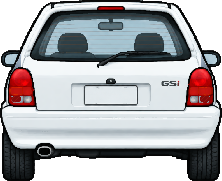
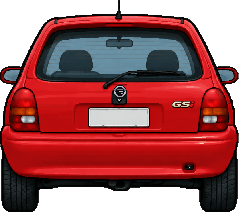
Corsário GSi: traseira nova (arte vermelha)
- Traseira da nova arte na grade nativa; máscara pelo matiz vermelho sem as
  lanternas (forma de topo redondo), a luz de freio do alto, o GSi e a placa
- Letreiro com o nome do modelo vira lataria; emblema da maçaneta vira o
  fictício
- Lanternas e pisca âmbar como na arte

Claude-Session: https://claude.ai/code/session_01MLD9VR7gkmY4w6a9beZcp6

diff --git a/src/carsbr.ts b/src/carsbr.ts
@@ -48,7 +48,7 @@ export const BR_CARS: CarSpec[] = [
   { ...fwd(spec({ id: 'br-golgti', name: 'Gaúcho GTI', basedOn: 'VW Gol GTI 2.0 (1994)', color: '#d81a12', price: 16000, position: 'dianteira', engine: '4 cil. 8v', cc: 1984, cv: 120, kmh: 185, z100: 9.2, kg: 970, curve: 'torque', lat: 0.86, brake: 0.92, handling: 1.0 })), dash: 'br-golgti', rear: { h: 0.75, roof: 0.62, lights: 'rect', wing: 1, glow: { dots: [[0.1, 0.5], [0.28, 0.5], [0.72, 0.5], [0.9, 0.5]] } } },
   { ...fwd(spec({ id: 'br-kadett', name: 'Cadete GSi', basedOn: 'Chevrolet Kadett GSi 2.0 (1989)', color: '#f0c000', price: 17000, position: 'dianteira', engine: '4 cil. 8v', cc: 1998, cv: 121, kmh: 190, z100: 9.6, kg: 1030, curve: 'torque', lat: 0.85, brake: 0.9, handling: 0.97 })), dash: 'br-kadett', rear: { h: 0.75, roof: 0.62, lights: 'rect', wing: 1, glow: { dots: [[0.11, 0.4], [0.89, 0.4]] } } },
   fwd(spec({ id: 'br-xr3', name: 'Escoltar XR3', basedOn: 'Ford Escort XR3 2.0i (1993)', color: '#1a3aa8', price: 16500, position: 'dianteira', engine: '4 cil. 8v', cc: 1984, cv: 115, kmh: 185, z100: 9.8, kg: 1050, curve: 'torque', lat: 0.85, brake: 0.9, handling: 0.97 })),
-  { ...fwd(spec({ id: 'br-corsa', name: 'Corsário GSi', basedOn: 'Chevrolet Corsa GSi 1.6 16v (1995)', color: '#ececec', price: 14000, position: 'dianteira', engine: '4 cil. 16v', cc: 1598, cv: 108, kmh: 190, z100: 9.5, kg: 950, curve: 'vtec', lat: 0.85, brake: 0.92, handling: 1.03 })), dash: 'br-corsa', rear: { h: 0.815, roof: 0.6, lights: 'rect', wing: 1, glow: { dots: [[0.1, 0.43], [0.9, 0.43]] } } },
+  { ...fwd(spec({ id: 'br-corsa', name: 'Corsário GSi', basedOn: 'Chevrolet Corsa GSi 1.6 16v (1995)', color: '#ececec', price: 14000, position: 'dianteira', engine: '4 cil. 16v', cc: 1598, cv: 108, kmh: 190, z100: 9.5, kg: 950, curve: 'vtec', lat: 0.85, brake: 0.92, handling: 1.03 })), dash: 'br-corsa', rear: { h: 0.88, roof: 0.6, lights: 'rect', wing: 1, glow: { dots: [[0.105, 0.47], [0.895, 0.47]] } } },
   fwd(spec({ id: 'br-monza', name: 'Monção S/R', basedOn: 'Chevrolet Monza S/R 2.0 (1986)', color: '#ececec', price: 13000, position: 'dianteira', engine: '4 cil. 8v', cc: 1998, cv: 110, kmh: 180, z100: 10.5, kg: 1060, curve: 'torque', lat: 0.8, brake: 0.86, handling: 0.9 })),
   spec({ id: 'br-opala', name: 'Opalino SS', basedOn: 'Chevrolet Opala SS 4.1 (1976)', color: '#1c1c20', price: 15000, position: 'dianteira', engine: '6 cil. 12v', cc: 4093, cv: 148, kmh: 180, z100: 10.5, kg: 1180, gears: G4, curve: 'torque', lat: 0.74, brake: 0.8, handling: 0.82 }),
   { ...spec({ id: 'br-pumagtb', name: 'Onça GTB', basedOn: 'Puma GTB S2 4.1 (1979)', color: '#c8ccd0', price: 19000, position: 'dianteira', engine: '6 cil. 12v', cc: 4093, cv: 140, kmh: 180, z100: 10.0, kg: 1150, gears: G4, curve: 'torque', lat: 0.78, brake: 0.82, handling: 0.86 }), dash: 'br-pumagtb', rear: { h: 0.62, roof: 0.62, lights: 'rect', wing: 0, glow: { dots: [[0.18, 0.6], [0.3, 0.6], [0.7, 0.6], [0.82, 0.6]] } } },

diff --git a/src/cars.ts b/src/cars.ts
@@ -321,7 +321,7 @@ const LAMPS: Record<string, LampDef> = {
   countach: { pop: [0.09, 0.57, 0.26, 0.62], sigRear: [0.125, 0.55, 0.2, 0.69], sigFront: [0.05, 0.64, 0.14, 0.7] },
   viper: { head: [0.165, 0.54, 0.06], sigRear: [0.08, 0.46, 0.16, 0.5], sigRed: true, sigFront: [0.04, 0.6, 0.1, 0.65] },
   '959': { head: [0.17, 0.49, 0.05], sigRear: [0.083, 0.51, 0.183, 0.57], sigFront: [0.05, 0.65, 0.13, 0.68] },
-  'br-corsa': { head: [0.16, 0.54, 0.06], sigRear: [0.05, 0.475, 0.15, 0.525], sigRed: true, sigFront: [0.06, 0.5, 0.1, 0.58] },
+  'br-corsa': { head: [0.16, 0.54, 0.06], sigRear: [0.05, 0.51, 0.16, 0.54], sigFront: [0.06, 0.5, 0.1, 0.58] },
   'br-uno': { head: [0.19, 0.55, 0.06], sigRear: [0.065, 0.46, 0.18, 0.535], sigFront: [0.075, 0.51, 0.105, 0.6] },
   'br-kadett': { head: [0.2, 0.52, 0.06], sigRear: [0.07, 0.46, 0.15, 0.54], sigFront: [0.05, 0.46, 0.11, 0.58] },
   'br-pumagte': { head: [0.11, 0.53, 0.07], sigRear: [0.24, 0.46, 0.3, 0.6], sigFront: [0.217, 0.63, 0.022] },

diff --git a/tools/ref/corsa_sprites.py b/tools/ref/corsa_sprites.py
@@ -19,13 +19,18 @@ sys.path.insert(0, HERE)
 from glass_fix import fix_glass  # noqa: E402
 from onca_sprites import body_mask  # noqa: E402
 from uno_sprites import emblem  # noqa: E402
-from vectra_sprites import flatten, outline  # noqa: E402
+from vectra_sprites import flatten, outline, red_mask  # noqa: E402
 
-PERIOD = {'side': 6.09, 'rear': 3.57, 'front': 4.665}
+PERIOD = {'side': 6.09, 'rear': 3.49, 'front': 4.665}
+SRC = {'side': 'src-side', 'rear': 'src-rear2', 'front': 'src-front'}  # traseira nova (vermelha)
 # peças com o retângulo exato (sai tudo) e peças de contorno curvo (sai só o que fica dentro
 # do contorno escuro: a lataria que encosta na borda do retângulo continua)
+# traseira (vermelha): lanternas, luz de freio do alto, emblema GSi e a placa
+REAR_RED_CUT = [(171, 99, 197, 110), (87, 106, 151, 127)]  # GSi e placa: o que fica dentro do contorno
+REAR_LAMPS = [(26.0, 101.5, 14.0, 131), (213.0, 101.5, 14.0, 131)]  # lanternas: topo redondo (centro, raio) até a linha de baixo
+REAR_THIRD = (105, 20, 131, 28)  # luz de freio do alto
 CUT = {
-    'rear': [(84, 83, 140, 107), (10, 94, 34, 106), (188, 94, 212, 106), (0, 50, 21, 68), (201, 50, 222, 68), (37, 145, 54, 158)],
+    'rear': [],
     'front': [(72, 99, 123, 119), (89, 82, 107, 97)],
     'side': [],
 }
@@ -77,14 +82,17 @@ def main():
     src, cars = sys.argv[1], sys.argv[2]
     for view in ('side', 'rear', 'front'):
         out = os.path.join(cars, f'br-corsa-{view}.png')
-        subprocess.run([sys.executable, os.path.join(HERE, 'regrid.py'), os.path.join(src, f'src-{view}.png'), out, str(PERIOD[view])], check=True)
+        subprocess.run([sys.executable, os.path.join(HERE, 'regrid.py'), os.path.join(src, f'{SRC[view]}.png'), out, str(PERIOD[view])], check=True)
         a = np.array(Image.open(out).convert('RGBA'))
         H, W = a.shape[:2]
         if view == 'rear':
-            taillights(a)
-        if view == 'rear':  # gravata da marca: lataria (cor da coluna ao lado, linha a linha)
-            for y in range(66, 77):
-                a[y, 99:124] = a[y, 96]
+            # letreiro com o nome do modelo: lataria (cor da coluna ao lado, linha a linha)
+            for y in range(99, 110):
+                a[y, 40:68] = a[y, 38]
+            # emblema da marca na maçaneta do porta-malas: maçaneta lisa e o emblema fictício
+            for y in range(84, 99):
+                a[y, 113:127] = a[y, 112]
+            emblem(a, 120.0, 91.5)
         if view == 'front':  # gravata da grade: grade lisa por baixo e o emblema fictício
             for y in range(84, 95):
                 a[y, 86:110] = a[y, 82]
@@ -92,7 +100,14 @@ def main():
         # os vidros da arte já são azulados (o branco da lataria não é vidro). De lado, o contorno
         # escuro de baixo liga os dois pneus: a regra da Onça apagaria a metade de baixo inteira,
         # então as rodas saem por círculos medidos
-        m = body_mask(a, 'rear' if view == 'side' else view, np.zeros(a.shape[:2], bool))
+        if view == 'rear':  # a traseira nova é vermelha: máscara pelo matiz
+            m = red_mask(a, REAR_RED_CUT, [REAR_THIRD])
+            yy, xx = np.mgrid[0:H, 0:W]
+            for cx, cy, r, yb in REAR_LAMPS:
+                lamp = ((xx + 0.5 - cx) ** 2 + (yy + 0.5 - cy) ** 2 <= r * r) | ((np.abs(xx + 0.5 - cx) <= r) & (yy + 0.5 >= cy) & (yy < yb))
+                m &= ~lamp
+        else:
+            m = body_mask(a, 'rear' if view == 'side' else view, np.zeros(a.shape[:2], bool))
         if view == 'side':
             yy, xx = np.mgrid[0:H, 0:W]
             for cx, cy, r in WHEELS_SIDE:
